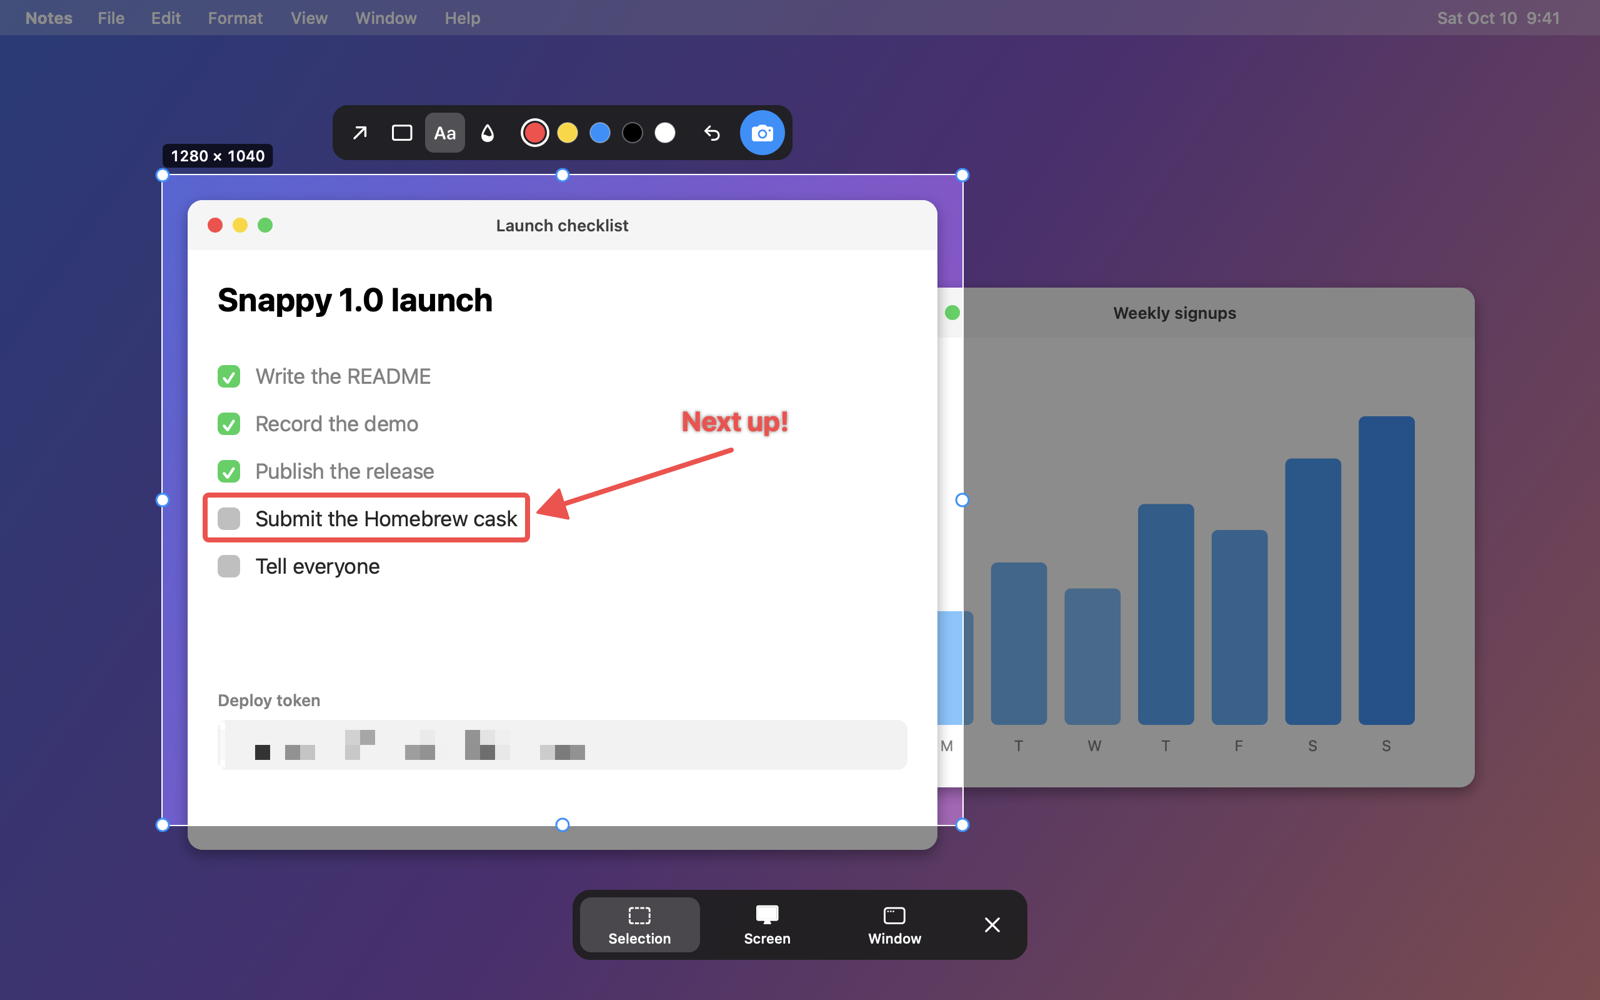
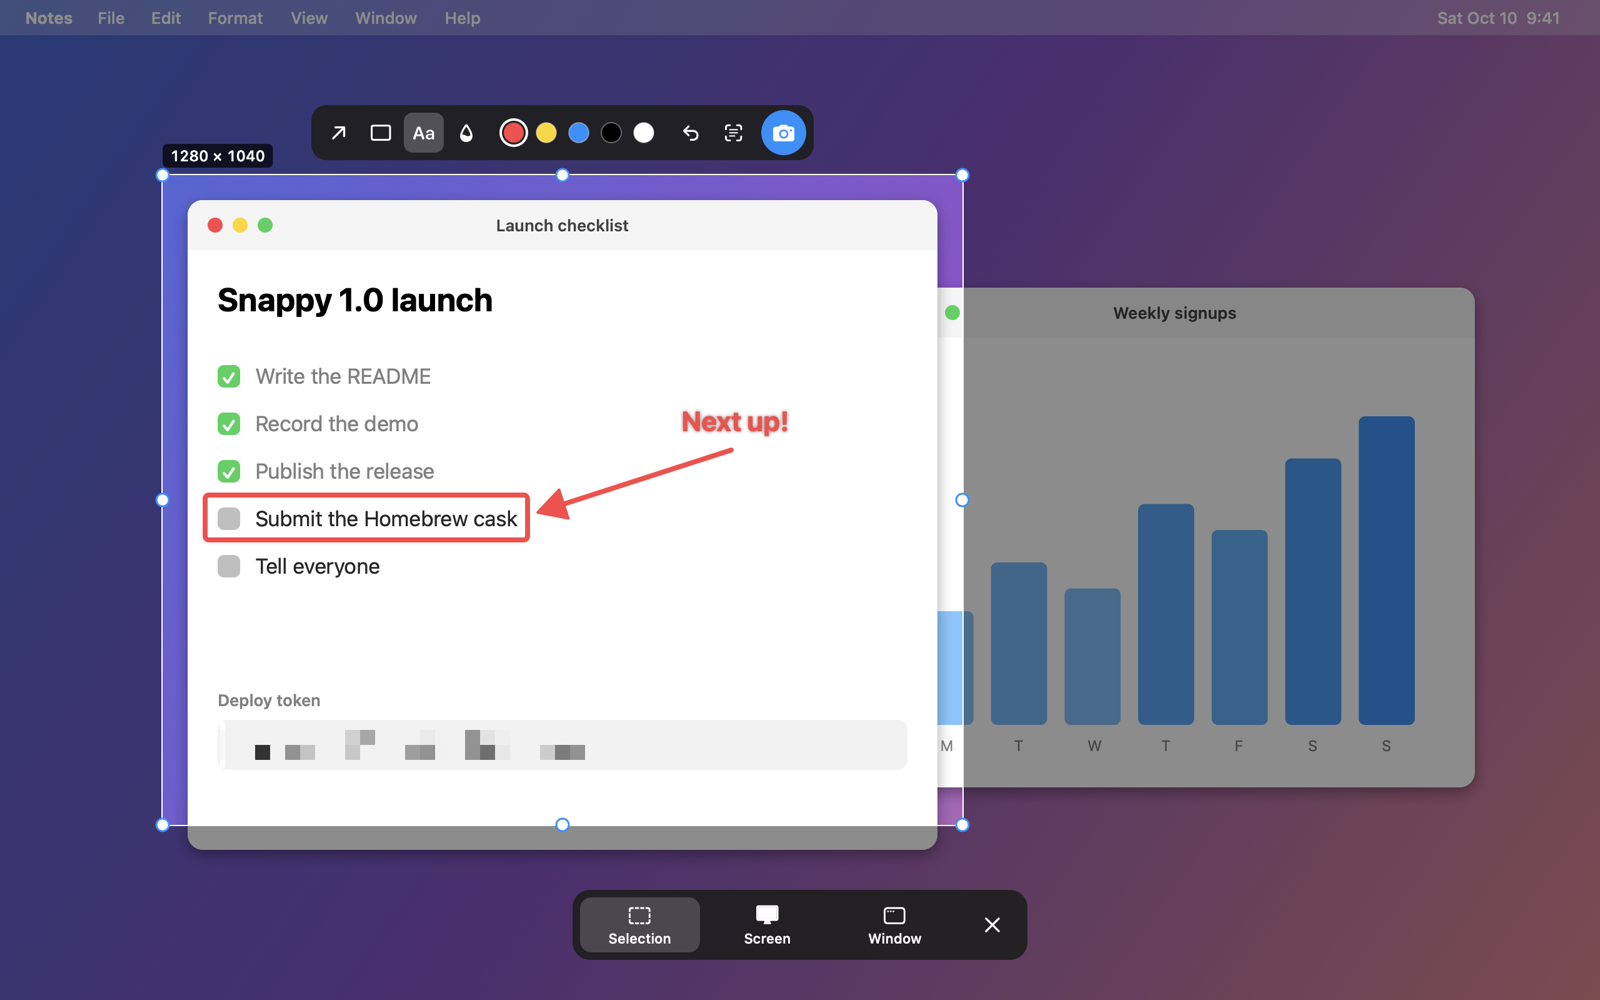
Add Copy Text: copy the text in a selection instead of an image
A text button in the selection bar (or Cmd+C) recognizes the text in the
selection on-device with Vision and copies it, then shows a small notice
with the first lines. Pieces on the same row are joined left to right.
It reads the marked-up image, so blurred areas are left out. No new menu
items. README, website (feature card and a demo button) and preview
images updated.

Claude-Session: https://claude.ai/code/session_013BCRMP5QqvHYYs18hrP2ft

Changed region(s): [[0.1875, 0.093, 0.5312, 0.155]]

diff --git a/site/index.html b/site/index.html
@@ -217,7 +217,7 @@
 
   .bar {
     position: absolute; display: flex; align-items: center; gap: calc(var(--u) * 6);
-    padding: calc(var(--u) * 8); border-radius: calc(var(--u) * 16); background: rgba(31, 31, 33, 0.94);
+    padding: calc(var(--u) * 8); border-radius: calc(var(--u) * 16); background: rgba(31, 31, 33, 0.97);
     cursor: default; z-index: 3;
   }
   .bar button {
@@ -333,6 +333,7 @@
     <symbol id="i-arrow" viewBox="0 0 24 24"><path d="M6 18 17 7M9.5 6.5H17.5V14.5" stroke="currentColor" stroke-width="2.2" fill="none" stroke-linecap="round" stroke-linejoin="round"/></symbol>
     <symbol id="i-box" viewBox="0 0 24 24"><rect x="4" y="6" width="16" height="12" rx="2" fill="none" stroke="currentColor" stroke-width="2.2"/></symbol>
     <symbol id="i-blur" viewBox="0 0 24 24"><path d="M12 3.5c3 4 6 7.4 6 10.5a6 6 0 0 1-12 0c0-3.1 3-6.5 6-10.5Z" fill="none" stroke="currentColor" stroke-width="2"/><path d="M12 9.2c1.6 2 3 3.8 3 5.2a3 3 0 0 1-3 3Z" fill="currentColor"/></symbol>
+    <symbol id="i-text" viewBox="0 0 24 24"><path d="M4 8V5.5A1.5 1.5 0 0 1 5.5 4H8M16 4h2.5A1.5 1.5 0 0 1 20 5.5V8M20 16v2.5a1.5 1.5 0 0 1-1.5 1.5H16M8 20H5.5A1.5 1.5 0 0 1 4 18.5V16M8.5 9h7M12 9v7" stroke="currentColor" stroke-width="2" fill="none" stroke-linecap="round"/></symbol>
     <symbol id="i-undo" viewBox="0 0 24 24"><path d="M9 7 5 11l4 4M5.5 11H14a5 5 0 0 1 0 10h-2" stroke="currentColor" stroke-width="2.2" fill="none" stroke-linecap="round" stroke-linejoin="round"/></symbol>
     <symbol id="i-camera" viewBox="0 0 24 24"><path d="M4 8.5A2.5 2.5 0 0 1 6.5 6h1.7l1.2-1.8h5.2L15.8 6h1.7A2.5 2.5 0 0 1 20 8.5v8A2.5 2.5 0 0 1 17.5 19h-11A2.5 2.5 0 0 1 4 16.5Z" fill="currentColor"/><circle cx="12" cy="12.5" r="3.4" fill="#2f6bf2"/><circle cx="12" cy="12.5" r="1.8" fill="currentColor"/></symbol>
     <symbol id="i-keys" viewBox="0 0 24 24"><rect x="2.5" y="6" width="19" height="12" rx="2.5" fill="none" stroke="currentColor" stroke-width="2"/><path d="M6 10h.01M9 10h.01M12 10h.01M15 10h.01M18 10h.01M7.5 14h9" stroke="currentColor" stroke-width="2" stroke-linecap="round"/></symbol>
@@ -425,14 +426,14 @@
           <p>Arrows, boxes, text and blur, right on the selection. Blur pixelates in the saved image, so passwords and tokens stay unreadable.</p>
         </div>
         <div class="card">
-          <div class="icon"><svg><use href="#i-clip"/></svg></div>
-          <h3>Saved and copied</h3>
-          <p>Every capture lands in your folder and on your clipboard. A preview waits in the corner: click to open it, or drag it straight into Slack, Mail or Finder.</p>
+          <div class="icon"><svg><use href="#i-text"/></svg></div>
+          <h3>Copy the text, not the picture</h3>
+          <p>Press <kbd>⌘C</kbd> on a selection to copy the words in it: error messages, text in images and videos, apps that won't let you select. Recognized on your Mac, never uploaded.</p>
         </div>
         <div class="card">
-          <div class="icon"><svg><use href="#i-gear"/></svg></div>
-          <h3>Your way</h3>
-          <p>Pick your own shortcut, save folder and PNG or JPEG. Turn off the file, the clipboard, the preview or the sound. Launch at login.</p>
+          <div class="icon"><svg><use href="#i-clip"/></svg></div>
+          <h3>Saved and copied</h3>
+          <p>Every capture lands in your folder and on your clipboard. A preview waits in the corner: click to open it, or drag it into Slack, Mail or Finder. Shortcut, folder, format and all of this are yours to change in Settings.</p>
         </div>
         <div class="card">
           <div class="icon"><svg><use href="#i-lock"/></svg></div>
@@ -608,7 +609,7 @@
   }
 
   function markBar(s) {
-    const bw = 470, bh = 64, gap = 16, toolbarTop = H - 34 - 94;
+    const bw = 524, bh = 64, gap = 16, toolbarTop = H - 34 - 94;
     let y = s.y + s.h + gap;
     if (y + bh > toolbarTop) y = s.y - gap - bh;
     if (y < 44) y = s.y + gap;
@@ -620,6 +621,7 @@
       ${COLORS.map(c => `<button type="button" class="swatch" data-act="color-${c}" aria-pressed="${st.color === c}" aria-label="Colour"><i style="background:${c}"></i></button>`).join('')}
       <span class="sep"></span>
       <button type="button" data-act="undo" aria-label="Undo (⌘Z)" title="Undo (⌘Z)" ${st.marks.length ? '' : 'disabled'}>${icon('i-undo')}</button>
+      <button type="button" data-act="copytext" aria-label="Copy text (⌘C)" title="Copy text (⌘C)">${icon('i-text')}</button>
       <button type="button" class="cap" data-act="capture" aria-label="Capture (Return)" title="Capture (Return)">${icon('i-camera')}</button>
     </div>`;
   }
@@ -747,6 +749,7 @@
     if (a.startsWith('color-')) st.color = a.slice(6);
     if (a === 'undo') st.marks.pop();
     if (a === 'capture') { captureSelection(); return; }
+    if (a === 'copytext') { copyText(); return; }
     render();
   }
 
@@ -759,6 +762,7 @@
     }
     if (!st.active) return;
     if ((e.metaKey || e.ctrlKey) && e.code === 'KeyZ') { e.preventDefault(); act('undo'); return; }
+    if ((e.metaKey || e.ctrlKey) && e.code === 'KeyC' && st.mode === 'sel' && st.sel) { e.preventDefault(); act('copytext'); return; }
     if (e.metaKey || e.ctrlKey || e.altKey) return;
     const map = { Escape: 'cancel', Enter: 'capture', KeyS: 'mode-sel', KeyC: 'screen', KeyW: 'mode-win', KeyA: 'tool-arrow', KeyR: 'tool-box', KeyB: 'tool-blur' };
     const a = map[e.code];
@@ -770,6 +774,37 @@
   });
 
   startBtn.addEventListener('click', start);
+
+  // ---- Copy text ----
+  // The app recognizes text in the pixels; here the pretend desktop's text is known, so collect the
+  // pieces inside the selection, skipping anything under a blur, in reading order.
+  function copyText() {
+    const s = st.sel;
+    if (!s || s.w < 3 || s.h < 3) return;
+    st.last = { ...s };
+    const r = stage.getBoundingClientRect();
+    const toUnits = b => ({ x: (b.left - r.left) / r.width * W, y: (b.top - r.top) / r.height * H, w: b.width / r.width * W, h: b.height / r.height * H });
+    const covered = (a, b) => a.x >= b.x && a.y >= b.y && a.x + a.w <= b.x + b.w && a.y + a.h <= b.y + b.h;
+    const blurs = st.marks.filter(m => m.type === 'blur');
+    const windowsFront = windows();
+    const pieces = [...desk.querySelectorAll('.menubar b, .menubar span, .tb, .notes h3, .notes .item, .notes .label, .notes .token')]
+      .map(el => ({ el, box: toUnits(el.getBoundingClientRect()), text: el.textContent.replace('✓', '').trim() }))
+      .filter(p => p.text && covered(p.box, s) && !blurs.some(b => inside(b, { x: p.box.x + p.box.w / 2, y: p.box.y + p.box.h / 2 })))
+      // Hidden behind the window in front? (The chart's title bar sits under the notes window.)
+      .filter(p => { const win = p.el.closest('.mwin'); if (!win) return true; const front = windowsFront.find(w => inside(w, { x: p.box.x + 2, y: p.box.y + 2 })); return !front || front.id === win.id; })
+      .sort((a, b) => a.box.y - b.box.y || a.box.x - b.box.x);
+    const rows = [];
+    for (const p of pieces) {
+      const row = rows[rows.length - 1];
+      if (row && Math.abs(row[0].box.y - p.box.y) < 10) row.push(p); else rows.push([p]);
+    }
+    const text = rows.map(row => row.map(p => p.text).join('  ')).join('\n');
+    stop();
+    if (!text) { say('No text found in that selection.'); return; }
+    if (navigator.clipboard) navigator.clipboard.writeText(text).catch(() => {});
+    const lines = text.split('\n');
+    say(`Copied ${lines.length} line${lines.length === 1 ? '' : 's'} of text: "${lines.slice(0, 2).join(' / ')}${lines.length > 2 ? ' / …' : ''}". In the app it's recognized from the pixels, on your Mac.`);
+  }
 
   // ---- Capture ----
   function captureSelection() {

diff --git a/Sources/Overlay.swift b/Sources/Overlay.swift
@@ -17,6 +17,7 @@ final class OverlayView: NSView {
     let image: CGImage
     let windows: [WindowTarget] // front-to-back
     var onCapture: (CGImage) -> Void = { _ in }
+    var onCopyText: (CGImage) -> Void = { _ in }
     var onCaptureScreen: () -> Void = {}
     var onCaptureWindow: (CGWindowID) -> Void = { _ in }
     var onCancel: () -> Void = {}
@@ -32,7 +33,7 @@ final class OverlayView: NSView {
     private let handleSize: CGFloat = 10
 
     // Markup
-    private enum BarItem { case tool(MarkupTool), color(Int), undo, capture }
+    private enum BarItem { case tool(MarkupTool), color(Int), undo, copyText, capture }
     private var tool: MarkupTool?
     private var colorIndex = 0
     private var color: NSColor { Markup.colors[colorIndex] }
@@ -90,7 +91,8 @@ final class OverlayView: NSView {
         x += 8
         for i in Markup.colors.indices { add(.color(i), 24) }
         x += 8
-        add(.undo, 32, gap: 6)
+        add(.undo, 32, gap: 2)
+        add(.copyText, 32, gap: 6)
         add(.capture, 36, gap: 0)
         let w = x + 6
 
@@ -215,6 +217,8 @@ final class OverlayView: NSView {
                 ring.stroke()
             case .undo:
                 drawSymbol("arrow.uturn.backward", in: r, size: 13, color: .white.withAlphaComponent(annotations.isEmpty ? 0.3 : 1))
+            case .copyText:
+                drawSymbol("text.viewfinder", in: r, size: 14)
             case .capture:
                 NSColor.systemBlue.setFill()
                 NSBezierPath(ovalIn: r).fill()
@@ -375,7 +379,11 @@ final class OverlayView: NSView {
 
     override func keyDown(with event: NSEvent) {
         if event.modifierFlags.contains(.command) {
-            if Int(event.keyCode) == kVK_ANSI_Z { use(.undo) } else { super.keyDown(with: event) }
+            switch Int(event.keyCode) {
+            case kVK_ANSI_Z: use(.undo)
+            case kVK_ANSI_C where mode == .selection && hasSelection: use(.copyText)
+            default: super.keyDown(with: event)
+            }
             return
         }
         if mode == .selection, hasSelection, let t = MarkupTool(keyCode: Int(event.keyCode)) { use(.tool(t)); return }
@@ -394,13 +402,26 @@ final class OverlayView: NSView {
     private func capture() {
         endText(keep: true)
         guard hasSelection else { return }
+        if let shot = selectedImage() { onCapture(shot) }
+    }
+
+    /// The selection, cut from the marked-up screen at full pixel resolution.
+    private func selectedImage() -> CGImage? {
         let scale = CGFloat(image.width) / bounds.width
         // CGImage origin is top-left; view origin is bottom-left.
         let px = CGRect(x: selection.minX * scale,
                         y: (bounds.height - selection.maxY) * scale,
                         width: selection.width * scale,
                         height: selection.height * scale).integral
-        if let shot = composited()?.cropping(to: px) { onCapture(shot) }
+        return composited()?.cropping(to: px)
+    }
+
+    /// Recognizes text in the selection instead of saving an image. Uses the marked-up image,
+    /// so anything blurred stays unreadable.
+    private func copyText() {
+        endText(keep: true)
+        guard hasSelection else { return }
+        if let shot = selectedImage() { onCopyText(shot) }
     }
 
     /// The frozen screen with the markup drawn on top, at full pixel resolution.
@@ -432,6 +453,9 @@ final class OverlayView: NSView {
             textField?.textColor = color
         case .undo:
             if textField != nil { endText(keep: false) } else if !annotations.isEmpty { annotations.removeLast() }
+        case .copyText:
+            copyText()
+            return
         case .capture:
             capture()
             return

diff --git a/Sources/Preview.swift b/Sources/Preview.swift
@@ -144,3 +144,71 @@ private final class PreviewView: NSView, NSDraggingSource {
         if operation != [] { onDismiss() }
     }
 }
+
+// MARK: - Small notice in the same corner, e.g. after copying text
+
+final class ToastPanel: NSPanel {
+    private static var current: ToastPanel?
+
+    static func show(_ title: String, detail: String?, symbol: String, on screen: NSScreen) {
+        PreviewPanel.dismissCurrent()
+        current?.orderOut(nil)
+        let panel = ToastPanel(title: title, detail: detail, symbol: symbol, screen: screen)
+        current = panel
+        panel.alphaValue = 0
+        panel.orderFrontRegardless()
+        NSAnimationContext.runAnimationGroup { $0.duration = 0.15; panel.animator().alphaValue = 1 }
+        DispatchQueue.main.asyncAfter(deadline: .now() + 2.5) { [weak panel] in
+            guard let panel, current === panel else { return }
+            current = nil
+            NSAnimationContext.runAnimationGroup({ $0.duration = 0.2; panel.animator().alphaValue = 0 }) { panel.orderOut(nil) }
+        }
+    }
+
+    private init(title: String, detail: String?, symbol: String, screen: NSScreen) {
+        let titleField = NSTextField(labelWithString: title)
+        titleField.font = .systemFont(ofSize: 13, weight: .semibold)
+        titleField.textColor = .white
+        // At most two short lines, so long copies don't make a huge notice.
+        let lines = (detail ?? "").split(separator: "\n", omittingEmptySubsequences: true)
+        var shown = lines.prefix(2).map { $0.count > 48 ? $0.prefix(47) + "…" : String($0) }.joined(separator: "\n")
+        if lines.count > 2 { shown += " …" }
+        let detailField = NSTextField(labelWithString: shown)
+        detailField.font = .systemFont(ofSize: 12)
+        detailField.textColor = NSColor.white.withAlphaComponent(0.75)
+        detailField.isHidden = detail == nil
+        let icon = NSImageView(image: NSImage(systemSymbolName: symbol, accessibilityDescription: nil)!
+            .withSymbolConfiguration(.init(pointSize: 18, weight: .medium).applying(.init(paletteColors: [.white])))!)
+
+        let text = NSStackView(views: [titleField, detailField])
+        text.orientation = .vertical
+        text.alignment = .leading
+        text.spacing = 2
+        let row = NSStackView(views: [icon, text])
+        row.spacing = 10
+        row.edgeInsets = NSEdgeInsets(top: 12, left: 14, bottom: 12, right: 16)
+
+        let size = row.fittingSize
+        let margin: CGFloat = 20
+        let frame = CGRect(x: screen.visibleFrame.maxX - size.width - margin, y: screen.visibleFrame.minY + margin,
+                           width: size.width, height: size.height)
+        super.init(contentRect: frame, styleMask: [.borderless, .nonactivatingPanel], backing: .buffered, defer: false)
+        level = .floating
+        isOpaque = false
+        backgroundColor = .clear
+        hasShadow = true
+        collectionBehavior = [.canJoinAllSpaces, .fullScreenAuxiliary, .transient]
+
+        let background = NSVisualEffectView(frame: CGRect(origin: .zero, size: size))
+        background.material = .hudWindow
+        background.appearance = NSAppearance(named: .darkAqua)
+        background.state = .active
+        background.wantsLayer = true
+        background.layer?.cornerRadius = 12
+        row.frame = background.bounds
+        background.addSubview(row)
+        contentView = background
+    }
+
+    override var canBecomeKey: Bool { false }
+}

diff --git a/Sources/TextRecognition.swift b/Sources/TextRecognition.swift
@@ -1,0 +1,35 @@
+import AppKit
+import Vision
+
+// MARK: - Copy text from a selection (on-device, via Vision)
+
+enum TextRecognition {
+    /// Recognizes the text in an image, one line per row, top to bottom. Calls back on the main queue.
+    static func recognize(_ image: CGImage, completion: @escaping (String) -> Void) {
+        DispatchQueue.global(qos: .userInitiated).async {
+            let request = VNRecognizeTextRequest()
+            request.recognitionLevel = .accurate
+            request.usesLanguageCorrection = true
+            request.automaticallyDetectsLanguage = true
+            try? VNImageRequestHandler(cgImage: image).perform([request])
+            let text = lines(from: request.results ?? []).joined(separator: "\n")
+            DispatchQueue.main.async { completion(text) }
+        }
+    }
+
+    /// Vision returns separate observations for pieces of text on the same row (e.g. table cells).
+    /// Group them into rows by vertical overlap and join each row left to right.
+    private static func lines(from observations: [VNRecognizedTextObservation]) -> [String] {
+        let pieces = observations.compactMap { o in o.topCandidates(1).first.map { (box: o.boundingBox, text: $0.string) } }
+            .sorted { $0.box.midY > $1.box.midY } // Vision's y axis points up
+        var rows: [[(box: CGRect, text: String)]] = []
+        for piece in pieces {
+            if let last = rows.last?.first, abs(last.box.midY - piece.box.midY) < min(last.box.height, piece.box.height) / 2 {
+                rows[rows.count - 1].append(piece)
+            } else {
+                rows.append([piece])
+            }
+        }
+        return rows.map { $0.sorted { $0.box.minX < $1.box.minX }.map(\.text).joined(separator: "  ") }
+    }
+}

diff --git a/Sources/main.swift b/Sources/main.swift
@@ -144,6 +144,22 @@ final class AppDelegate: NSObject, NSApplicationDelegate {
                 if let shot = try? await Self.grabWindow(id) { self?.save(shot, on: screen) } else { NSSound.beep() }
             }
         }
+        view.onCopyText = { [weak self, weak view] shot in
+            guard let self, let view else { return }
+            UserDefaults.standard.set(NSStringFromRect(view.selection), forKey: self.lastSelectionKey)
+            self.closeOverlay()
+            TextRecognition.recognize(shot) { text in
+                guard !text.isEmpty else {
+                    ToastPanel.show("No text found", detail: "Try a larger or sharper selection.", symbol: "text.viewfinder", on: screen)
+                    return
+                }
+                let pb = NSPasteboard.general
+                pb.clearContents()
+                pb.setString(text, forType: .string)
+                let lines = text.split(separator: "\n").count
+                ToastPanel.show("Copied \(lines) line\(lines == 1 ? "" : "s") of text", detail: text, symbol: "doc.on.clipboard", on: screen)
+            }
+        }
         view.onCapture = { [weak self, weak view] shot in
             guard let self, let view else { return }
             UserDefaults.standard.set(NSStringFromRect(view.selection), forKey: self.lastSelectionKey)

diff --git a/README.md b/README.md
@@ -12,6 +12,7 @@ A tiny, Ubuntu-style screenshot tool for macOS. Press one shortcut, pick an area
 - Freezes the screen while you choose, so menus and tooltips stay put
 - Drag to select, then move or resize the selection before capturing
 - Quick markup on a selection: arrows, boxes, text and blur (for hiding passwords and personal info)
+- Copy the text in a selection instead of an image, recognized on your Mac
 - One-click full-screen and single-window captures
 - Remembers your last selection, so repeat shots of the same area take one click
 - Saves a PNG to `~/Pictures/Screenshots` and copies it to the clipboard (both configurable)
@@ -43,6 +44,10 @@ A bar next to the selection has markup tools. Pick one, then draw inside the sel
 | Blur | `B` | Drag over anything you want to hide; it's pixelated in the saved image |
 
 Pick a colour from the swatches, and undo with the ↩ button or `⌘Z`. Click the active tool again to go back to moving the selection.
+
+### Copy text
+
+Click the text button next to the camera (or press `⌘C`) to copy the text inside the selection instead of taking a picture: error messages, text in images, videos or apps that won't let you select it. Recognition runs on your Mac with Apple's Vision framework; nothing is uploaded. Anything you've blurred is left out.
 
 The capture covers the display the mouse pointer is on.
 
